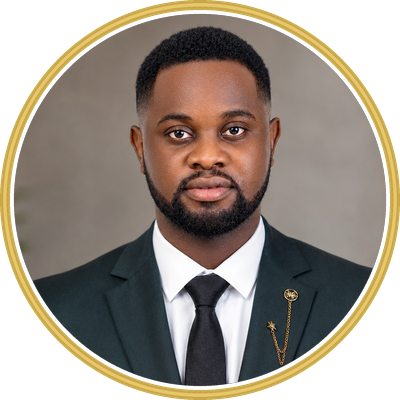
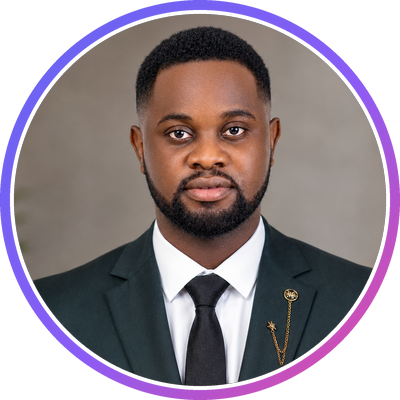
Restyle site with the schedule palette (indigo, violet, pink), Plus Jakarta Sans and a light/dark toggle
Claude-Session: https://claude.ai/code/session_018TThRwSDyWtUceKfkhmGEW

Changed region(s): [[0.0, 0.0, 1.0, 1.0]]

diff --git a/assets/css/style.css b/assets/css/style.css
@@ -21,60 +21,49 @@
    * colors
    */
 
-  /* gradient */
+  /* gradient: Bherney's schedule palette (indigo, violet, pink) */
 
-  --bg-gradient-onyx: linear-gradient(
-    to bottom right, 
-    hsl(240, 1%, 25%) 3%, 
-    hsl(0, 0%, 19%) 97%
-  );
-  --bg-gradient-jet: linear-gradient(
-    to bottom right, 
-    hsla(240, 1%, 18%, 0.251) 0%, 
-    hsla(240, 2%, 11%, 0) 100%
-  ), hsl(240, 2%, 13%);
-  --bg-gradient-yellow-1: linear-gradient(
-    to bottom right, 
-    hsl(45, 100%, 71%) 0%, 
-    hsla(36, 100%, 69%, 0) 50%
-  );
-  --bg-gradient-yellow-2: linear-gradient(
-    135deg, 
-    hsla(45, 100%, 71%, 0.251) 0%, 
-    hsla(35, 100%, 68%, 0) 59.86%
-  ), hsl(240, 2%, 13%);
-  --border-gradient-onyx: linear-gradient(
-    to bottom right, 
-    hsl(0, 0%, 25%) 0%, 
-    hsla(0, 0%, 25%, 0) 50%
-  );
-  --text-gradient-yellow: linear-gradient(
-    to right, 
-    hsl(45, 100%, 72%), 
-    hsl(35, 100%, 68%)
-  );
+  --bg-gradient-onyx: linear-gradient(to bottom right, #1C2643 3%, #121A2E 97%);
+  --bg-gradient-jet: linear-gradient(to bottom right, rgba(99, 102, 241, 0.07) 0%, rgba(99, 102, 241, 0) 100%), #121A2E;
+  --bg-gradient-yellow-1: linear-gradient(135deg, #6366F1 0%, #8B5CF6 55%, #EC4899 120%);
+  --bg-gradient-yellow-2: linear-gradient(135deg, rgba(99, 102, 241, 0.16) 0%, rgba(139, 92, 246, 0) 60%), #121A2E;
+  --border-gradient-onyx: linear-gradient(to bottom right, #2E3A5E 0%, rgba(35, 45, 71, 0) 50%);
+  --text-gradient-yellow: linear-gradient(135deg, #6366F1 0%, #8B5CF6 55%, #EC4899 120%);
 
-  /* solid */
+  /* solid (dark mode) */
 
-  --jet: hsl(0, 0%, 22%);
-  --onyx: hsl(240, 1%, 17%);
-  --eerie-black-1: hsl(240, 2%, 13%);
-  --eerie-black-2: hsl(240, 2%, 12%);
-  --smoky-black: hsl(0, 0%, 7%);
-  --white-1: hsl(0, 0%, 100%);
-  --white-2: hsl(0, 0%, 98%);
-  --orange-yellow-crayola: hsl(45, 100%, 72%);
-  --vegas-gold: hsl(45, 54%, 58%);
-  --light-gray: hsl(0, 0%, 84%);
-  --light-gray-70: hsla(0, 0%, 84%, 0.7);
-  --bittersweet-shimmer: hsl(0, 43%, 51%);
+  --jet: #232D47;               /* borders */
+  --onyx: #0F1628;              /* soft panels */
+  --eerie-black-1: #121A2E;     /* cards */
+  --eerie-black-2: #121A2E;
+  --smoky-black: #0A0F1E;       /* page background */
+  --white-1: #E8ECF6;           /* main text */
+  --white-2: #E8ECF6;
+  --orange-yellow-crayola: #818CF8; /* indigo, lifted for small text on dark */
+  --vegas-gold: #6366F1;        /* indigo: buttons, borders, active states */
+  --light-gray: #C3CAD9;        /* secondary text */
+  --light-gray-70: #8592AD;     /* muted text */
+  --bittersweet-shimmer: #F43F5E;
+
+  /* extra palette tokens */
+  --violet: #8B5CF6;
+  --pink: #EC4899;
+  --teal: #14B8A6;
+  --rose: #F43F5E;
+  --amber: #F59E0B;
+  --sky: #0EA5E9;
+  --on-accent: #FFFFFF;
+  --nav-bg: rgba(18, 26, 46, 0.82);
+  --mobile-menu-bg: #0A0F1E;
+  --hover-panel: #1A2440;
+  --indigo-tint: rgba(99, 102, 241, 0.16);
 
   /**
    * typography
    */
 
   /* font-family */
-  --ff-poppins: 'Poppins', sans-serif;
+  --ff-poppins: 'Plus Jakarta Sans', 'Poppins', sans-serif;
 
   /* font-size */
   --fs-1: 24px;
@@ -148,7 +137,7 @@ input, textarea {
 
 ::selection {
   background: var(--orange-yellow-crayola);
-  color: var(--smoky-black);
+  color: var(--on-accent);
 }
 
 :focus { outline-color: var(--orange-yellow-crayola); }
@@ -459,7 +448,7 @@ main {
   bottom: 0;
   left: 0;
   width: 100%;
-  background: hsla(240, 1%, 17%, 0.75);
+  background: var(--nav-bg);
   backdrop-filter: blur(10px);
   border: 1px solid var(--jet);
   border-radius: 12px 12px 0 0;
@@ -641,7 +630,7 @@ main {
   left: 0;
   width: 100%;
   height: 100vh;
-  background: hsl(0, 0%, 5%);
+  background: var(--mobile-menu-bg);
   opacity: 0;
   visibility: hidden;
   pointer-events: none;
@@ -930,7 +919,7 @@ main {
   border-radius: 8px;
 }
 
-.select-item button:hover { --eerie-black-2: hsl(240, 2%, 20%); }
+.select-item button:hover { --eerie-black-2: var(--hover-panel); }
 
 .project-list {
   display: grid;
@@ -1915,7 +1904,7 @@ textarea.form-input::-webkit-resizer { display: none; }
   gap: 8px;
   margin-top: 18px;
   background: var(--text-gradient-yellow);
-  color: var(--smoky-black);
+  color: var(--on-accent);
   font-size: var(--fs-6);
   font-weight: var(--fw-500);
   padding: 10px 18px;
@@ -2159,7 +2148,7 @@ textarea.form-input::-webkit-resizer { display: none; }
   display: flex;
   align-items: center;
   gap: 4px;
-  background: hsla(0, 0%, 7%, 0.8);
+  background: rgba(10, 15, 30, 0.8);
   color: var(--orange-yellow-crayola);
   font-size: var(--fs-8);
   font-weight: var(--fw-500);
@@ -2207,7 +2196,7 @@ body.lightbox-open { overflow: hidden; }
 .lightbox-backdrop {
   position: absolute;
   inset: 0;
-  background: hsla(0, 0%, 3%, 0.9);
+  background: rgba(6, 9, 20, 0.92);
   backdrop-filter: blur(4px);
 }
 
@@ -2239,7 +2228,7 @@ body.lightbox-open { overflow: hidden; }
   width: 40px;
   height: 40px;
   border-radius: 10px;
-  background: hsla(0, 0%, 7%, 0.85);
+  background: rgba(10, 15, 30, 0.85);
   border: 1px solid var(--jet);
   color: var(--white-2);
   font-size: 24px;
@@ -2303,13 +2292,13 @@ body.lightbox-open { overflow: hidden; }
   width: 40px;
   height: 40px;
   border-radius: 50%;
-  background: hsla(0, 0%, 7%, 0.75);
+  background: rgba(10, 15, 30, 0.75);
   color: var(--white-2);
   font-size: 22px;
   transition: var(--transition-1);
 }
 
-.lightbox-nav:hover { background: var(--vegas-gold); color: var(--smoky-black); }
+.lightbox-nav:hover { background: var(--vegas-gold); color: var(--on-accent); }
 .lightbox-nav[hidden] { display: none; }
 .lightbox-nav.prev { left: 10px; }
 .lightbox-nav.next { right: 10px; }
@@ -2448,10 +2437,10 @@ body.lightbox-open { overflow: hidden; }
 .skill-legend li { display: flex; align-items: center; gap: 6px; }
 .skill-legend .dot { display: inline-block; width: 10px; height: 10px; border-radius: 50%; }
 
-.lv-expert { --lv: hsl(45, 100%, 64%); }
-.lv-advanced { --lv: hsl(38, 85%, 58%); }
-.lv-proficient { --lv: hsl(30, 45%, 52%); }
-.lv-working { --lv: hsl(0, 0%, 55%); }
+.lv-expert { --lv: #6366F1; }
+.lv-advanced { --lv: #8B5CF6; }
+.lv-proficient { --lv: #EC4899; }
+.lv-working { --lv: #64748B; }
 .skill-legend .dot { background: var(--lv); }
 
 .skills-accordion { display: grid; gap: 12px; margin-bottom: 35px; }
@@ -2579,7 +2568,7 @@ body.lightbox-open { overflow: hidden; }
 .skill-bar-fill {
   height: 100%;
   width: 0;
-  background: linear-gradient(to right, hsl(35, 100%, 45%), var(--lv));
+  background: linear-gradient(to right, #6366F1, var(--lv));
   border-radius: 6px;
   transition: width 0.9s cubic-bezier(.2, .8, .2, 1);
 }
@@ -2667,7 +2656,7 @@ body.lightbox-open { overflow: hidden; }
   transition: var(--transition-1);
 }
 
-.pager-top:hover { background: var(--vegas-gold); color: var(--smoky-black); }
+.pager-top:hover { background: var(--vegas-gold); color: var(--on-accent); }
 
 
 /* floating back-to-top */
@@ -2684,7 +2673,7 @@ body.lightbox-open { overflow: hidden; }
   height: 44px;
   border-radius: 50%;
   background: var(--text-gradient-yellow);
-  color: var(--smoky-black);
+  color: var(--on-accent);
   font-size: 20px;
   box-shadow: var(--shadow-3);
   opacity: 0;
@@ -2748,8 +2737,8 @@ body.lightbox-open { overflow: hidden; }
 .proof-filters button { white-space: nowrap; }
 .proof-filters button span { display: inline; color: var(--vegas-gold); margin-left: 2px; }
 .proof-filters button:hover { color: var(--light-gray); }
-.proof-filters button.active { background: var(--vegas-gold); border-color: var(--vegas-gold); color: var(--smoky-black); }
-.proof-filters button.active span { color: var(--smoky-black); }
+.proof-filters button.active { background: var(--vegas-gold); border-color: var(--vegas-gold); color: var(--on-accent); }
+.proof-filters button.active span { color: var(--on-accent); }
 
 /* card grids */
 .award-grid,
@@ -2822,7 +2811,7 @@ body.lightbox-open { overflow: hidden; }
   display: inline-flex;
   align-items: center;
   gap: 5px;
-  background: hsla(0, 0%, 7%, 0.8);
+  background: rgba(10, 15, 30, 0.8);
   color: var(--white-2);
   font-size: var(--fs-8);
   padding: 4px 9px;
@@ -2840,7 +2829,7 @@ body.lightbox-open { overflow: hidden; }
 .proof-year {
   align-self: flex-start;
   background: var(--text-gradient-yellow);
-  color: var(--smoky-black);
+  color: var(--on-accent);
   font-size: var(--fs-8);
   font-weight: var(--fw-500);
   padding: 2px 10px;
@@ -2882,7 +2871,7 @@ body.lightbox-open { overflow: hidden; }
   transition: var(--transition-1);
 }
 
-.proof-btn:hover { background: var(--vegas-gold); color: var(--smoky-black); }
+.proof-btn:hover { background: var(--vegas-gold); color: var(--on-accent); }
 .proof-btn.ghost { border-color: var(--jet); color: var(--light-gray); }
 .proof-btn.ghost:hover { border-color: var(--vegas-gold); background: transparent; color: var(--orange-yellow-crayola); }
 
@@ -2975,7 +2964,7 @@ body.lightbox-open { overflow: hidden; }
   justify-content: center;
   gap: 8px;
   background: var(--text-gradient-yellow);
-  color: var(--smoky-black);
+  color: var(--on-accent);
   font-size: var(--fs-7);
   font-weight: var(--fw-500);
   padding: 10px 14px;
@@ -3023,3 +3012,65 @@ body.lightbox-open { overflow: hidden; }
 .more-toggle ion-icon { transition: transform 0.25s ease; }
 .more-toggle[aria-expanded="true"] ion-icon { transform: rotate(180deg); }
 .award-grid, .cert-grid { align-items: start; }
+
+
+/*-----------------------------------*\
+  #PALETTE TWEAKS AND LIGHT THEME
+\*-----------------------------------*/
+
+.proof-org { color: var(--orange-yellow-crayola); }
+.proof-filters button span { color: var(--orange-yellow-crayola); }
+.proof-filters button.active { background: var(--bg-gradient-yellow-1); border-color: transparent; }
+
+.theme-toggle {
+  position: fixed;
+  top: 14px;
+  right: 14px;
+  z-index: 20;
+  width: 42px;
+  height: 42px;
+  display: grid;
+  place-items: center;
+  border-radius: 12px;
+  background: var(--eerie-black-1);
+  border: 1px solid var(--jet);
+  color: var(--white-1);
+  font-size: 20px;
+  box-shadow: var(--shadow-1);
+  transition: var(--transition-1);
+}
+.theme-toggle:hover { border-color: var(--vegas-gold); color: var(--orange-yellow-crayola); }
+.theme-toggle .icon-light { display: none; }
+html[data-theme="light"] .theme-toggle .icon-light { display: block; }
+html[data-theme="light"] .theme-toggle .icon-dark { display: none; }
+
+html[data-theme="light"] {
+  --bg-gradient-onyx: linear-gradient(to bottom right, #FFFFFF 3%, #F7F8FC 97%);
+  --bg-gradient-jet: linear-gradient(to bottom right, #EEF0FF 0%, rgba(238, 240, 255, 0) 100%), #FFFFFF;
+  --bg-gradient-yellow-2: linear-gradient(135deg, #EEF0FF 0%, rgba(238, 240, 255, 0) 60%), #FFFFFF;
+  --border-gradient-onyx: linear-gradient(to bottom right, #E3E8F2 0%, rgba(227, 232, 242, 0) 50%);
+  --jet: #E3E8F2;
+  --onyx: #F7F8FC;
+  --eerie-black-1: #FFFFFF;
+  --eerie-black-2: #FFFFFF;
+  --smoky-black: #F3F5FB;
+  --white-1: #0F172A;
+  --white-2: #0F172A;
+  --orange-yellow-crayola: #4F46E5;
+  --vegas-gold: #6366F1;
+  --light-gray: #334155;
+  --light-gray-70: #64748B;
+  --nav-bg: rgba(255, 255, 255, 0.85);
+  --mobile-menu-bg: #F3F5FB;
+  --hover-panel: #EEF0FF;
+  --indigo-tint: #EEF0FF;
+  --shadow-1: -4px 8px 24px rgba(15, 23, 42, 0.08);
+  --shadow-2: 0 16px 30px rgba(15, 23, 42, 0.08);
+  --shadow-3: 0 16px 40px rgba(15, 23, 42, 0.08);
+  --shadow-4: 0 25px 50px rgba(15, 23, 42, 0.06);
+  --shadow-5: 0 24px 80px rgba(15, 23, 42, 0.1);
+  color-scheme: light;
+}
+@media (max-width: 1249px) {
+  .theme-toggle { top: auto; bottom: 138px; right: 16px; }
+}

diff --git a/index.html b/index.html
@@ -31,10 +31,13 @@
 
   <link rel="preconnect" href="https://fonts.googleapis.com">
   <link rel="preconnect" href="https://fonts.gstatic.com" crossorigin>
-  <link href="https://fonts.googleapis.com/css2?family=Poppins:wght@300;400;500;600&display=swap" rel="stylesheet">
+  <link href="https://fonts.googleapis.com/css2?family=Plus+Jakarta+Sans:wght@300;400;500;600;700&display=swap" rel="stylesheet">
+  <script>try{var t=localStorage.getItem("theme");if(t==="light")document.documentElement.setAttribute("data-theme","light");}catch(e){}</script>
 </head>
 
 <body>
+  <button class="theme-toggle" type="button" aria-label="Switch between light and dark mode" title="Light or dark mode"><ion-icon class="icon-dark" name="sunny-outline"></ion-icon><ion-icon class="icon-light" name="moon-outline"></ion-icon></button>
+
 
   <main>
 
@@ -45,7 +48,7 @@
       <div class="sidebar-info">
 
         <figure class="avatar-box">
-          <img src="./assets/images/my-avatar.png?v=2" alt="Temitope Waheeb" width="80">
+          <img src="./assets/images/my-avatar.png?v=3" alt="Temitope Waheeb" width="80">
         </figure>
 
         <div class="info-content">

diff --git a/assets/js/script.js b/assets/js/script.js
@@ -484,3 +484,16 @@ document.querySelectorAll(".more-toggle").forEach(function (btn) {
     btn.querySelector("span").textContent = open ? "More details" : "Fewer details";
   });
 });
+
+
+/* light / dark theme toggle */
+(function () {
+  const btn = document.querySelector(".theme-toggle");
+  if (!btn) return;
+  btn.addEventListener("click", function () {
+    const root = document.documentElement;
+    const light = root.getAttribute("data-theme") === "light";
+    if (light) root.removeAttribute("data-theme"); else root.setAttribute("data-theme", "light");
+    try { localStorage.setItem("theme", light ? "dark" : "light"); } catch (e) {}
+  });
+})();
